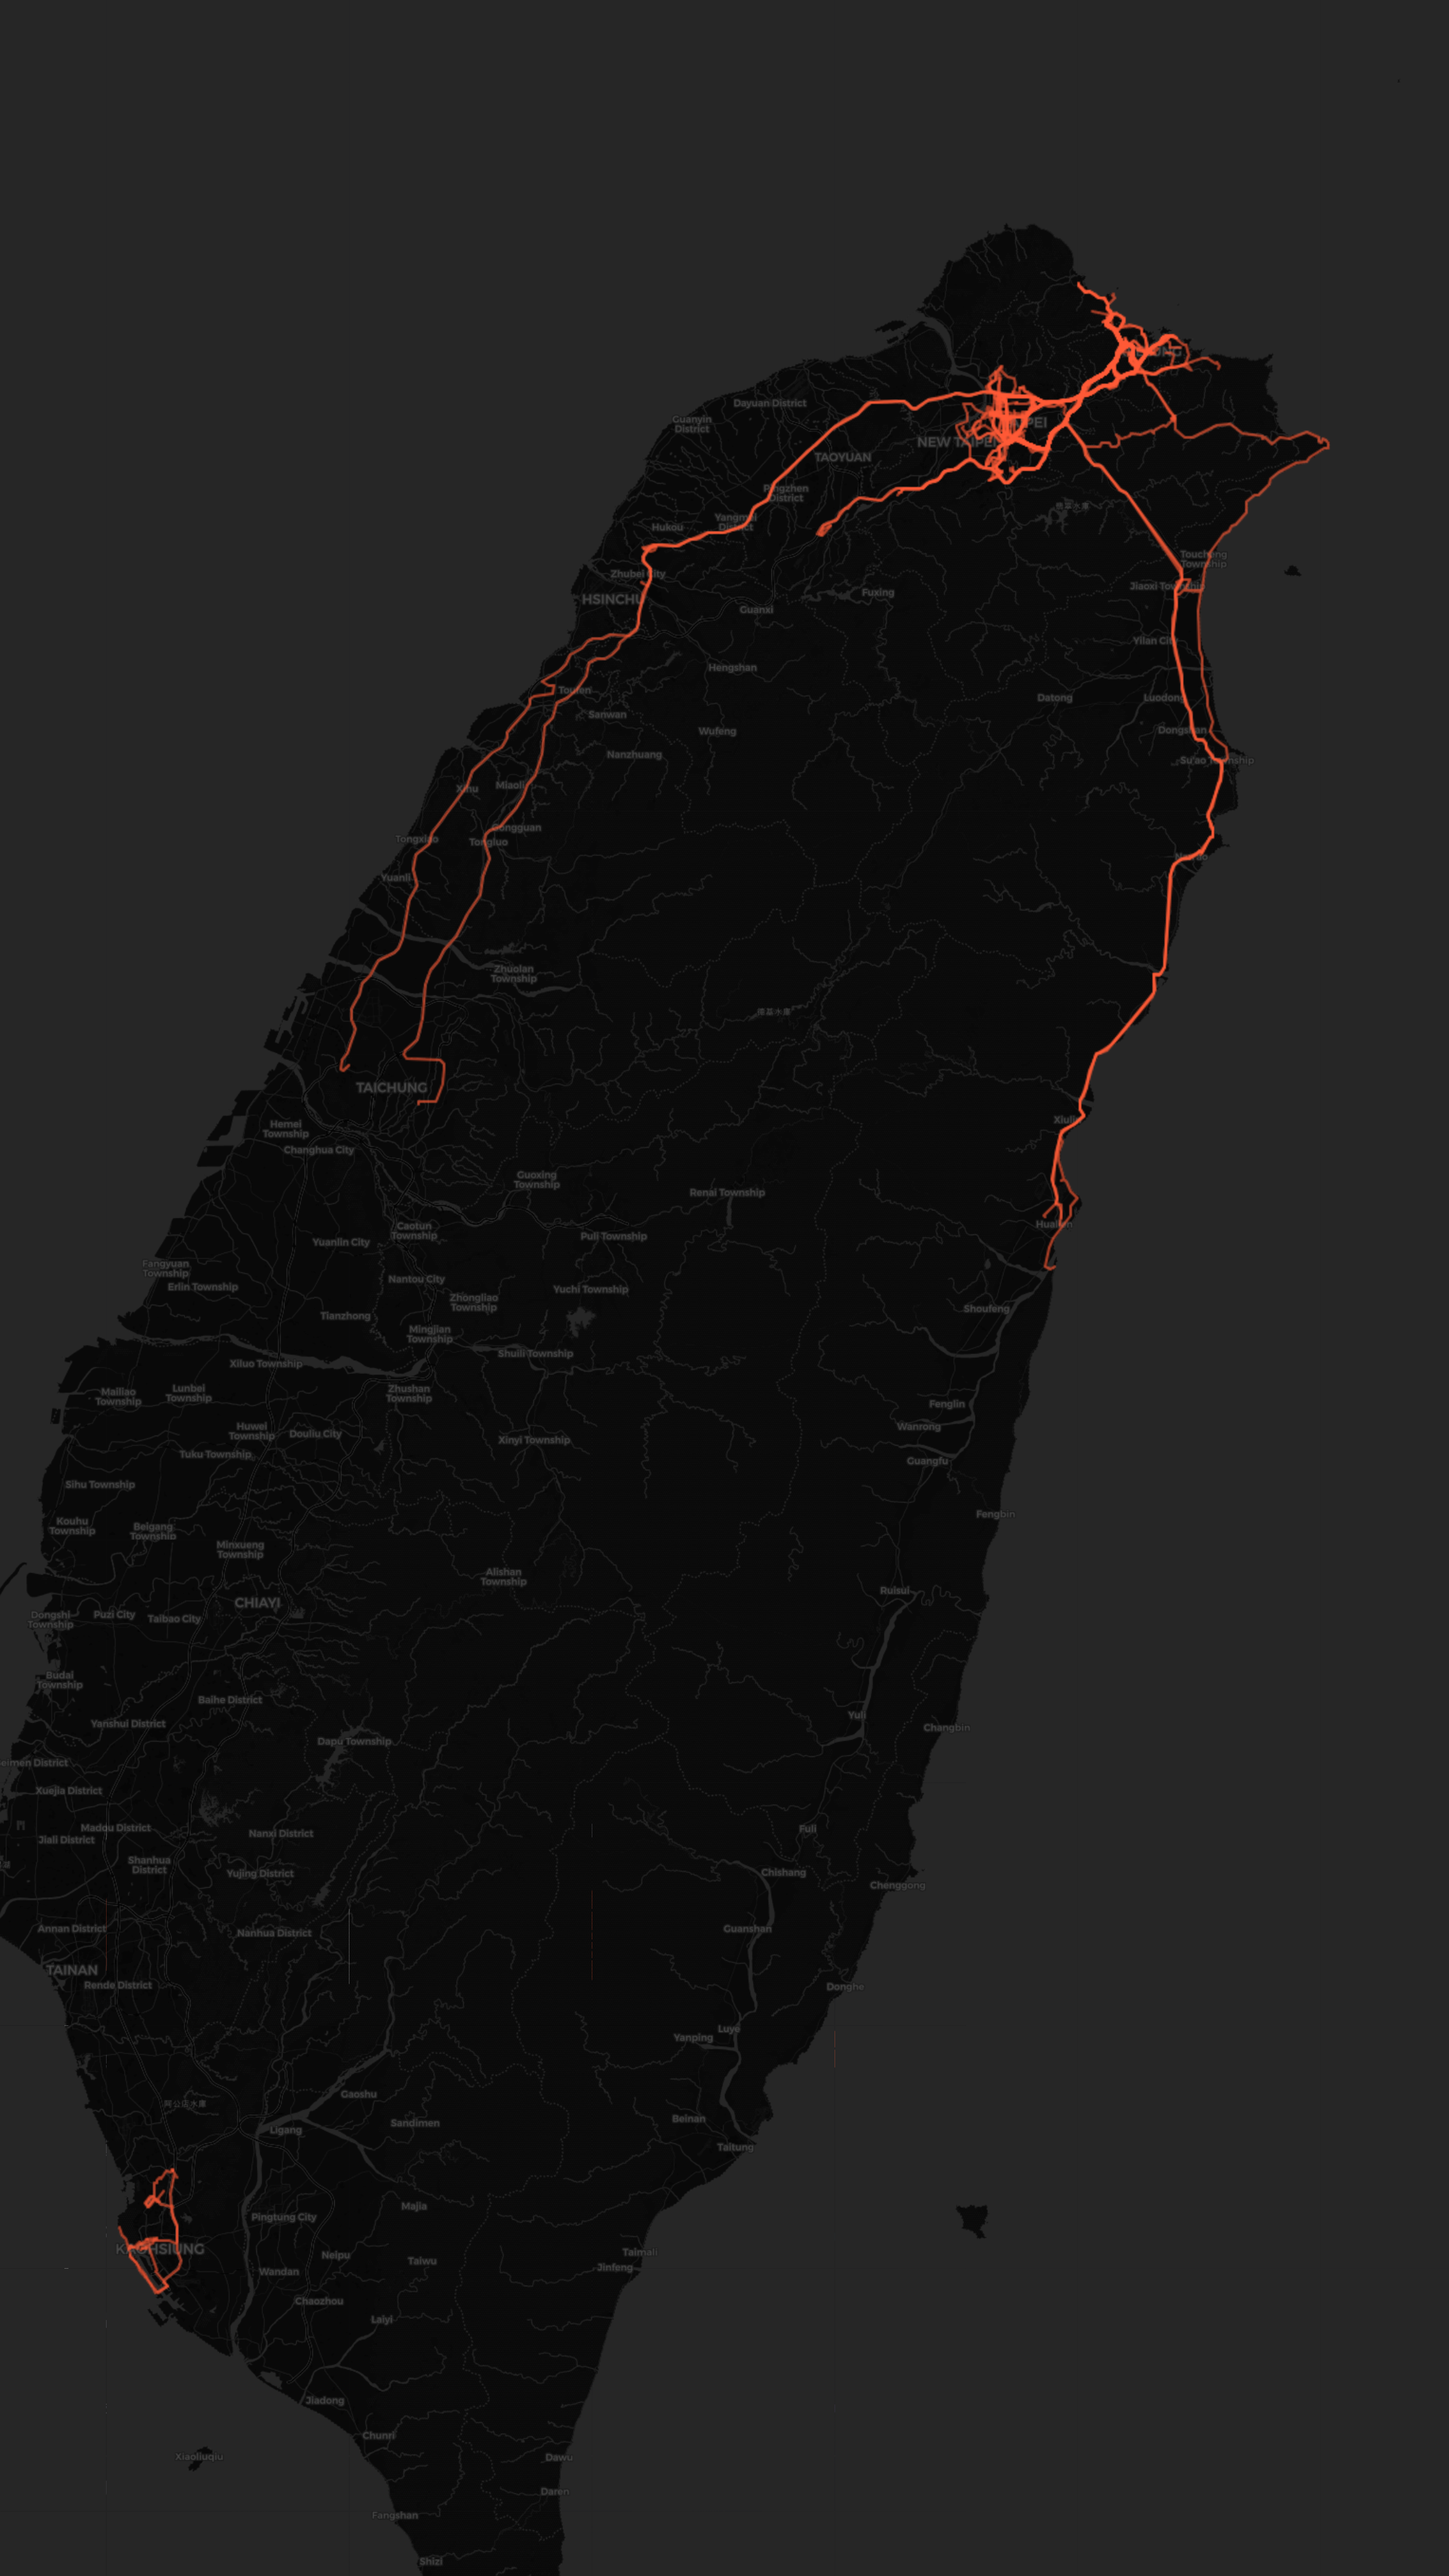
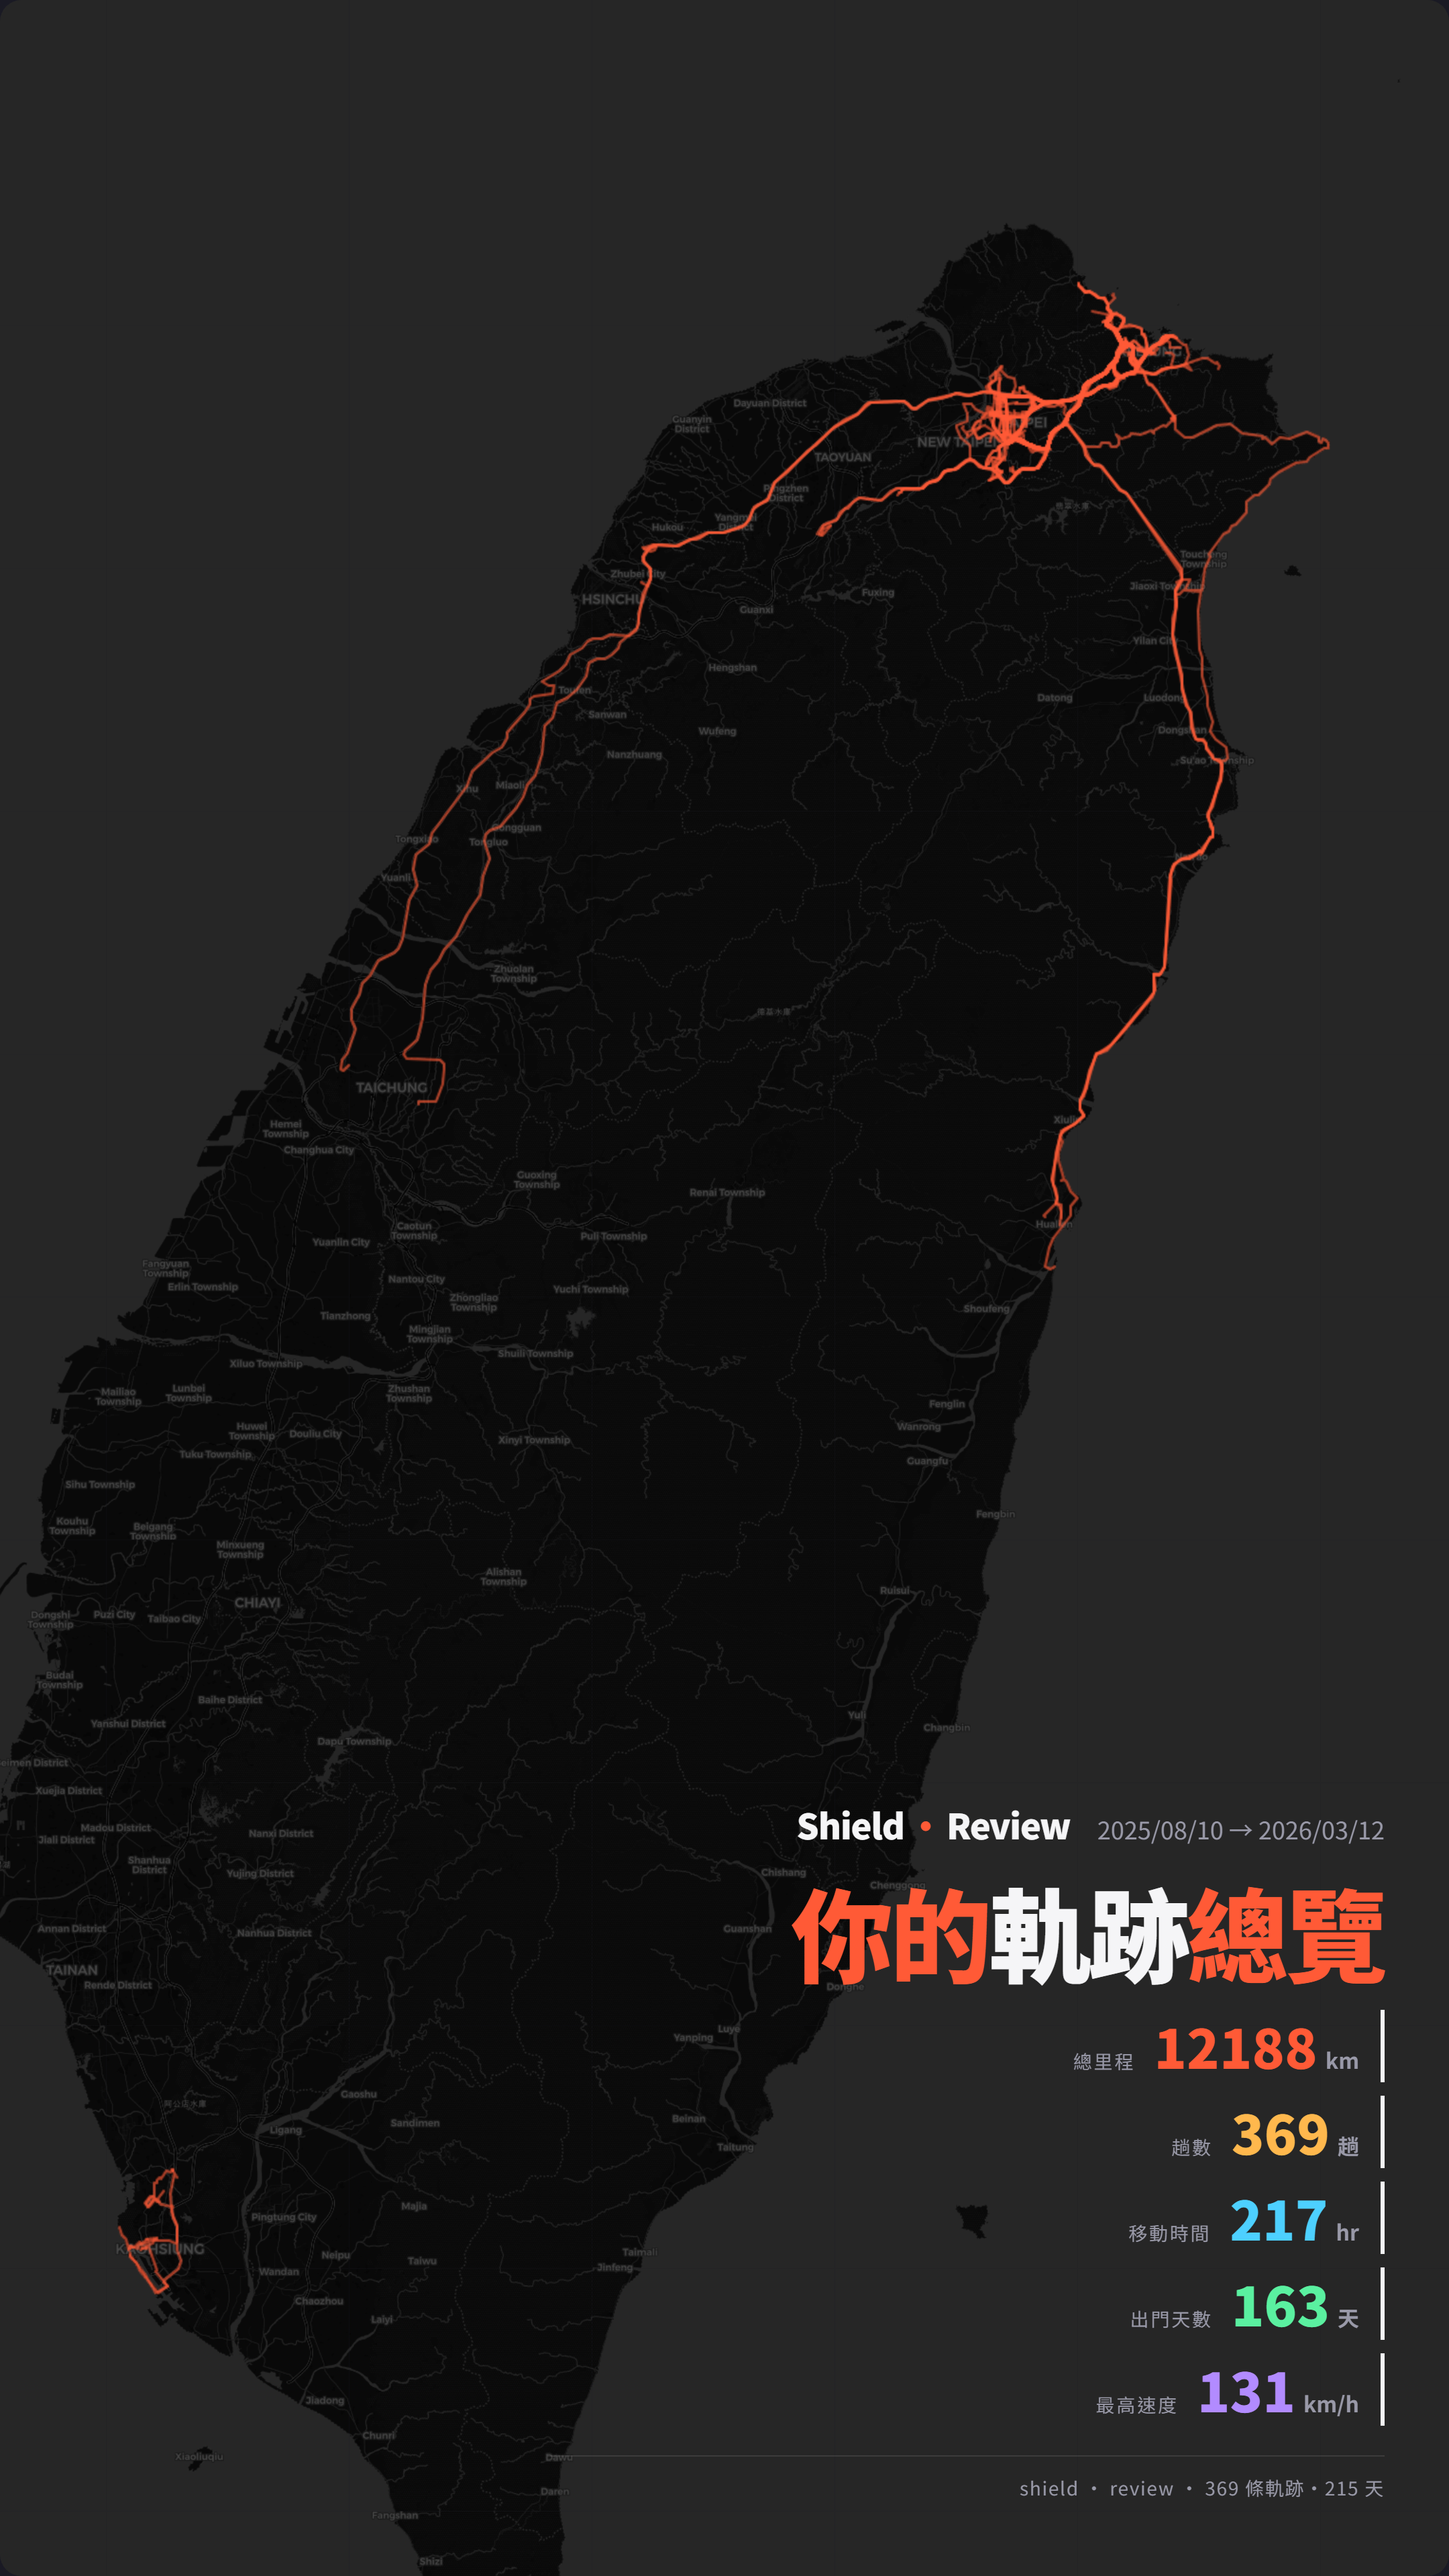
update readme

Changed region(s): [[0.5583, 0.6875, 0.9616, 0.9375]]

diff --git a/README.md b/README.md
@@ -14,29 +14,31 @@
 
 <p align="center">
   <img src="public/shield-review-overview.png" alt="地圖總覽" width="100%"/>
+  <img src="public/shield-review-overview-fill.png" alt="地圖總覽" width="49%"/>
+  <img src="public/shield-review-overview-portrait.png" alt="地圖總覽" width="49%"/>
 </p>
 
 > 卡片回顧：
 
 <p align="center">
-  <img src="public/shield-review-01.png" alt="01" width="48%"/>
-  <img src="public/shield-review-02.png" alt="02" width="48%"/>
-  <img src="public/shield-review-03.png" alt="03" width="48%"/>
-  <img src="public/shield-review-04.png" alt="04" width="48%"/>
-  <img src="public/shield-review-05.png" alt="05" width="48%"/>
-  <img src="public/shield-review-06.png" alt="06" width="48%"/>
-  <img src="public/shield-review-07.png" alt="07" width="48%"/>
-  <img src="public/shield-review-08.png" alt="08" width="48%"/>
-  <img src="public/shield-review-09.png" alt="09" width="48%"/>
-  <img src="public/shield-review-10.png" alt="10" width="48%"/>
+  <img src="public/shield-review-01.png" alt="01" width="49%"/>
+  <img src="public/shield-review-02.png" alt="02" width="49%"/>
+  <img src="public/shield-review-03.png" alt="03" width="49%"/>
+  <img src="public/shield-review-04.png" alt="04" width="49%"/>
+  <img src="public/shield-review-05.png" alt="05" width="49%"/>
+  <img src="public/shield-review-06.png" alt="06" width="49%"/>
+  <img src="public/shield-review-07.png" alt="07" width="49%"/>
+  <img src="public/shield-review-08.png" alt="08" width="49%"/>
+  <img src="public/shield-review-09.png" alt="09" width="49%"/>
+  <img src="public/shield-review-10.png" alt="10" width="49%"/>
 </p>
 
 ## 它能做什麼
 
 把 `share_track_*.zip` 丟進去之後：
 
-- **回顧頁**（大字卡片、滑動切換）：總公里、總時數、趟數、熱門時段／星期、月度趨勢、最快速度、最長一趟、最早 / 最晚出門，每張都能存成圖片
-- **地圖頁**：所有軌跡疊圖、線路 / 熱力切換、點軌跡看細節、整份總覽存成海報
+- **回顧頁**（大字卡片、滑動切換）：總公里、總時數、趟數、熱門時段／星期、月度趨勢、最快速度、最長一趟、最早 / 最晚出門。每張可單獨存，也能一鍵打包，固定 1080×1920 直式輸出
+- **地圖頁**：所有軌跡疊圖、線路 / 熱力切換、點軌跡看細節。總覽海報三種版型 — 橫式 16:9、直式上文下圖、直式地圖鋪滿
 - **本機解析**：JSZip + DOMParser 都在瀏覽器跑，IndexedDB 緩存
 
 ## 在你的電腦測
